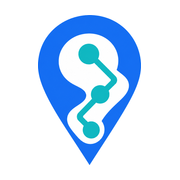
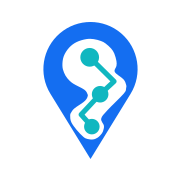
A marca vira vetor, e a rota se traca enquanto o app carrega
O pino era um PNG de 512 px gerado no Lovable e recortado a mao. Cobrava tres precos:
uma requisicao so para desenhar 32 px de cabecalho, borrao em tela retina acima de 512,
e nada dentro dele dava para animar. Ainda trazia o que o gerador errava: a cabeca do
pino nao era um circulo e as laterais nao eram tangentes dele.

O vetor foi DERIVADO do raster, nao redesenhado de memoria. A mancha branca saiu do
contorno tracado do proprio arquivo (rastreamento de Moore sobre branco+turquesa, buracos
preenchidos, Ramer-Douglas-Peucker e curva de Catmull-Rom: 917 pontos viram 39). A rota
saiu de medir corte a corte os nos, os cotovelos e a espessura. O que mudou de proposito
e o que o gerador errava: a cabeca virou circulo de verdade (256,176 raio 176) e as
laterais viraram as tangentes exatas dele ate a ponta em 256,512.

Medido contra o raster, renderizando o SVG e comparando mascara por mascara: 97,0% de
sobreposicao na silhueta, 95,6% na mancha branca, 94,8% na rota. O que sobra e a borda
de antisserrilhado de um pixel.

O carregamento passa a ser a propria marca: a rota se traca de um no ao outro, no lugar
da barrinha pulsante que servia a qualquer produto. Vale no splash do app e TAMBEM antes
do React, com o SVG embutido dentro de #root no index.html (o React limpa o conteiner no
primeiro render, entao nao existe codigo de remocao para esquecer). O dasharray vive so
na classe animada: sem animacao o pino aparece inteiro, nunca tracejado.
[…]

Changed region(s): [[0.1944, 0.0833, 0.8056, 0.9167]]

diff --git a/src/components/brand/Logo.tsx b/src/components/brand/Logo.tsx
@@ -1,18 +1,127 @@
-import { cn, withBase } from "@/lib/utils";
+import { cn } from "@/lib/utils";
 import { useBrand, iniciaisDaMarca } from "@/lib/brand/BrandContext";
 
-/** Marca do Mapa da Prescrição: o pino de mapa com a rota de 3 nós, a arte
- *  ESCOLHIDA pelo Filipe (24/07/2026) entre as geradas no Lovable, tratada
- *  (fundo transparente + recorte) em /brand/marca-pino.webp. Fundo
- *  transparente: funciona em claro e escuro. */
-export function MarcaPino({ className }: { className?: string }) {
+/*
+ * A MARCA EM VETOR, e por que ela deixou de ser um arquivo de imagem.
+ *
+ * O pino vinha de `/brand/marca-pino.webp`, um PNG de 512 px gerado no Lovable e recortado
+ * à mão. Servia, e cobrava três preços: pedia uma requisição só para desenhar 32 px de
+ * cabeçalho, borrava em tela retina acima de 512, e não dava para animar nem recolorir nada
+ * dentro dele. Ainda trazia as imperfeições do gerador: a cabeça do pino não era um círculo,
+ * as laterais não eram tangentes exatas e as bordas tinham meio pixel de sujeira.
+ *
+ * O vetor abaixo foi DERIVADO do raster, não redesenhado de memória: a mancha branca é o
+ * contorno traçado do próprio arquivo (Moore + simplificação + curva de Catmull-Rom), e a
+ * rota saiu de medir os nós, os cotovelos e a espessura pixel a pixel. O que mudou de
+ * propósito é o que o gerador errava: a cabeça virou um círculo de verdade (centro 256,176,
+ * raio 176) e as laterais viraram as tangentes exatas dele até a ponta em 256,512. Medido
+ * contra o raster: 97% de sobreposição na silhueta, 95,6% na mancha branca, 94,8% na rota,
+ * e a diferença que sobra é a borda de antisserrilhado de um pixel.
+ *
+ * As cores são LITERAIS de propósito. Marca não segue tema: o pino é #146EF1 e a rota é
+ * #10B7C0 no claro e no escuro, como em qualquer papel timbrado.
+ */
+const PINO = "M106.1 268.2A176 176 0 1 1 405.9 268.2L256 512Z";
+const MANCHA =
+  "M240 64C250.7 62.2 258.8 62.8 268 64C277.2 65.2 287.7 68.3 295 71C302.3 73.7 305.7 75.3 312 80C318.3 84.7 327.5 92.7 333 99C338.5 105.3 341.7 110.2 345 118C348.3 125.8 351.7 138.3 353 146C354.3 153.7 354 157.2 353 164C352 170.8 342.7 178.7 347 187C351.3 195.3 372 206.2 379 214C386 221.8 387.3 228.3 389 234C390.7 239.7 390.5 242.3 389 248C387.5 253.7 391.7 254.3 380 268C368.3 281.7 333 314.5 319 330C305 345.5 298.2 351.5 296 361C293.8 370.5 304.7 379.8 306 387C307.3 394.2 305.3 399 304 404C302.7 409 301.5 412.3 298 417C294.5 421.7 288.5 428.3 283 432C277.5 435.7 271.5 438.2 265 439C258.5 439.8 250 438.7 244 437C238 435.3 235.7 434.7 229 429C222.3 423.3 211.5 412.2 204 403C196.5 393.8 188 383 184 374C180 365 179.8 355.3 180 349C180.2 342.7 182.2 340.5 185 336C187.8 331.5 189.7 328 197 322C204.3 316 221.8 305.5 229 300C236.2 294.5 237.3 292.5 240 289C242.7 285.5 244.2 282.2 245 279C245.8 275.8 247 274.3 245 270C243 265.7 242 259.7 233 253C224 246.3 201.5 237 191 230C180.5 223 175.7 217.8 170 211C164.3 204.2 160.2 197 157 189C153.8 181 151.2 173.2 151 163C150.8 152.8 151.8 139.2 156 128C160.2 116.8 168 104.8 176 96C184 87.2 193.3 80.3 204 75C214.7 69.7 229.3 65.8 240 64Z";
+const ROTA = "M253 132L344 222L292 270L221 346L261 391";
+/** Nós da rota, do topo para a ponta. O raio decresce, como no desenho original. */
+const NOS = [
+  { cx: 253, cy: 132, r: 35 },
+  { cx: 292, cy: 270, r: 31 },
+  { cx: 261, cy: 391, r: 29 },
+] as const;
+const AZUL = "#146EF1";
+const TEAL = "#10B7C0";
+
+/**
+ * O pino do Mapa da Prescrição. Decorativo por padrão: quem o usa ao lado do nome da marca
+ * não quer que o leitor de tela diga "Mapa da Prescrição" duas vezes. Passe `rotulo` quando
+ * ele aparecer sozinho.
+ */
+export function MarcaPino({
+  className,
+  rotulo,
+  animado,
+}: {
+  className?: string;
+  rotulo?: string;
+  /** anima a rota se traçando: o estado de carregamento da casa */
+  animado?: boolean;
+}) {
   return (
-    <img
-      src={withBase("/brand/marca-pino.webp")}
-      alt=""
-      aria-hidden="true"
-      className={cn("object-contain", className)}
-    />
+    <svg
+      viewBox="0 0 512 512"
+      fill="none"
+      className={cn(animado && "marca-carregando", className)}
+      role={rotulo ? "img" : undefined}
+      aria-label={rotulo}
+      aria-hidden={rotulo ? undefined : true}
+      focusable="false"
+    >
+      <path fill={AZUL} d={PINO} />
+      <path fill="#FFFFFF" d={MANCHA} />
+      <path
+        className="marca-rota"
+        fill="none"
+        stroke={TEAL}
+        strokeWidth={19}
+        strokeLinecap="round"
+        strokeLinejoin="round"
+        d={ROTA}
+      />
+      {NOS.map((no, i) => (
+        <circle
+          key={no.cy}
+          className="marca-no"
+          fill={TEAL}
+          cx={no.cx}
+          cy={no.cy}
+          r={no.r}
+          style={animado ? { animationDelay: `${i * 0.16}s` } : undefined}
+        />
+      ))}
+    </svg>
+  );
+}
+
+/**
+ * A MARCA COMO INDICADOR DE CARREGAMENTO.
+ *
+ * A rota se traça de um nó ao outro, que é literalmente o que o produto faz enquanto espera.
+ * Substitui a barrinha pulsante genérica que ficava embaixo do logo. Quem desliga animação no
+ * sistema recebe o pino inteiro, parado: os quadros terminam no desenho completo, nunca num
+ * estado pela metade.
+ */
+export function MarcaCarregando({
+  className,
+  rotulo = "Carregando",
+}: {
+  className?: string;
+  rotulo?: string;
+}) {
+  return (
+    <span role="status" aria-live="polite" className="inline-flex flex-col items-center gap-2">
+      <MarcaPino animado className={cn("h-12 w-12", className)} />
+      <span className="sr-only">{rotulo}</span>
+    </span>
+  );
+}
+
+/** O nome da marca, com o traço da rota sob "Prescrição" (é o desenho do logotipo). */
+function Palavra({ className }: { className?: string }) {
+  return (
+    <span className={cn("whitespace-nowrap font-display font-bold leading-none text-ink", className)}>
+      Mapa da{" "}
+      <span className="relative inline-block">
+        Prescrição
+        <span
+          aria-hidden
+          className="absolute inset-x-0 -bottom-[0.18em] h-[0.1em] rounded-full"
+          style={{ background: TEAL }}
+        />
+      </span>
+    </span>
   );
 }
 
@@ -46,11 +155,7 @@ export function Logo({ showWord = true, className }: { showWord?: boolean; class
   return (
     <div className={cn("flex items-center gap-2", className)}>
       <MarcaPino className="h-8 w-8 shrink-0" />
-      {showWord && (
-        <span className="whitespace-nowrap font-display text-[17px] font-bold leading-none text-ink">
-          Mapa da <span className="text-primary">Prescrição</span>
-        </span>
-      )}
+      {showWord && <Palavra className="text-[17px]" />}
     </div>
   );
 }

diff --git a/index.html b/index.html
@@ -43,6 +43,25 @@
         } catch (e) {}
       })();
     </script>
+    <style>
+      /* 363 é o comprimento medido do caminho da rota, por isso o traço fecha no último nó.
+         O dasharray vive só aqui: sem animação o pino aparece inteiro, nunca tracejado. */
+      .splash-marca {
+        position: fixed;
+        inset: 0;
+        display: grid;
+        place-items: center;
+        background: var(--bg, #f7f6f3);
+      }
+      .splash-marca svg { width: 72px; height: 72px; }
+      @keyframes splash-percorre { from { stroke-dashoffset: 363; } to { stroke-dashoffset: 0; } }
+      @media (prefers-reduced-motion: no-preference) {
+        .splash-marca .rota {
+          stroke-dasharray: 363;
+          animation: splash-percorre 1.6s cubic-bezier(0.65, 0, 0.35, 1) infinite;
+        }
+      }
+    </style>
     <meta
       name="description"
       content="Sistema para profissionais de Educação Física: registre o aluno, a avaliação, o semáforo e o treino; acompanhe do cadastro à reavaliação; e direcione a prescrição ao objetivo e à condição de cada aluno, com o porquê documentado. A decisão é sempre sua."
@@ -76,7 +95,29 @@
     </script>
   </head>
   <body>
-    <div id="root"></div>
+    <!--
+      A MARCA ENQUANTO O APLICATIVO CARREGA.
+
+      Fica DENTRO de #root: o React limpa o contêiner no primeiro render, então não existe
+      código de remoção para esquecer de rodar nem risco de a tela ficar presa. Enquanto o
+      pacote não chega, o que aparece é a marca se desenhando, e não uma página em branco.
+
+      O SVG é o mesmo de /brand/marca-pino.svg, embutido porque uma requisição a mais aqui
+      atrasaria justamente o quadro que ele existe para preencher. Se a marca mudar, rode
+      `node scripts/gerar-icones-marca.mjs` e traga o path novo para cá.
+    -->
+    <div id="root">
+      <div class="splash-marca" role="status" aria-label="Carregando">
+        <svg viewBox="0 0 512 512" fill="none" aria-hidden="true" focusable="false">
+          <path fill="#146EF1" d="M106.1 268.2A176 176 0 1 1 405.9 268.2L256 512Z"/>
+          <path fill="#FFFFFF" d="M240 64C250.7 62.2 258.8 62.8 268 64C277.2 65.2 287.7 68.3 295 71C302.3 73.7 305.7 75.3 312 80C318.3 84.7 327.5 92.7 333 99C338.5 105.3 341.7 110.2 345 118C348.3 125.8 351.7 138.3 353 146C354.3 153.7 354 157.2 353 164C352 170.8 342.7 178.7 347 187C351.3 195.3 372 206.2 379 214C386 221.8 387.3 228.3 389 234C390.7 239.7 390.5 242.3 389 248C387.5 253.7 391.7 254.3 380 268C368.3 281.7 333 314.5 319 330C305 345.5 298.2 351.5 296 361C293.8 370.5 304.7 379.8 306 387C307.3 394.2 305.3 399 304 404C302.7 409 301.5 412.3 298 417C294.5 421.7 288.5 428.3 283 432C277.5 435.7 271.5 438.2 265 439C258.5 439.8 250 438.7 244 437C238 435.3 235.7 434.7 229 429C222.3 423.3 211.5 412.2 204 403C196.5 393.8 188 383 184 374C180 365 179.8 355.3 180 349C180.2 342.7 182.2 340.5 185 336C187.8 331.5 189.7 328 197 322C204.3 316 221.8 305.5 229 300C236.2 294.5 237.3 292.5 240 289C242.7 285.5 244.2 282.2 245 279C245.8 275.8 247 274.3 245 270C243 265.7 242 259.7 233 253C224 246.3 201.5 237 191 230C180.5 223 175.7 217.8 170 211C164.3 204.2 160.2 197 157 189C153.8 181 151.2 173.2 151 163C150.8 152.8 151.8 139.2 156 128C160.2 116.8 168 104.8 176 96C184 87.2 193.3 80.3 204 75C214.7 69.7 229.3 65.8 240 64Z"/>
+          <path class="rota" fill="none" stroke="#10B7C0" stroke-width="19" stroke-linecap="round" stroke-linejoin="round" d="M253 132L344 222L292 270L221 346L261 391"/>
+          <circle fill="#10B7C0" cx="253" cy="132" r="35"/>
+          <circle fill="#10B7C0" cx="292" cy="270" r="31"/>
+          <circle fill="#10B7C0" cx="261" cy="391" r="29"/>
+        </svg>
+      </div>
+    </div>
     <script type="module" src="/src/main.tsx"></script>
   </body>
 </html>

diff --git a/src/components/app/AppLayout.tsx b/src/components/app/AppLayout.tsx
@@ -2,7 +2,7 @@ import * as React from "react";
 import { createPortal } from "react-dom";
 import { Link, Navigate, Outlet, useLocation, useNavigate } from "react-router-dom";
 import { Bell, CheckCheck, MoreHorizontal, Search, Eye, Plus, LogOut } from "lucide-react";
-import { Logo } from "@/components/brand/Logo";
+import { Logo, MarcaPino } from "@/components/brand/Logo";
 import { GlobalSearch } from "@/components/app/GlobalSearch";
 import { PRIMARIOS, MAIS, BOTTOM, CONTA, itemAtivo } from "@/components/app/nav";
 import { notificacoes } from "@/lib/notificacoes";
@@ -164,15 +164,26 @@ export function AppLayout() {
   );
 }
 
-/** Tela cheia enquanto o Supabase confere se há sessão ativa (login em nuvem). */
+/**
+ * Tela cheia enquanto o Supabase confere se há sessão ativa (login em nuvem).
+ *
+ * A espera é da própria marca: a rota se traça de um nó ao outro, no lugar da barrinha
+ * pulsante que servia a qualquer produto. `role="status"` e `aria-live` ficam no wrapper,
+ * porque quem usa leitor de tela precisa ouvir que há uma espera, e não ver uma animação.
+ */
 function SplashCarregando() {
   return (
     <div className="fixed inset-0 grid place-items-center bg-bg">
-      <div className="flex flex-col items-center gap-3">
-        <Logo />
-        <div className="h-1 w-24 overflow-hidden rounded-full bg-surface-soft">
-          <div className="h-full w-1/2 animate-pulse rounded-full gradient-brand" />
-        </div>
+      <div role="status" aria-live="polite" className="flex flex-col items-center gap-4">
+        <MarcaPino animado className="h-16 w-16" />
+        <span className="font-display text-base font-bold leading-none text-ink">
+          Mapa da{" "}
+          <span className="relative inline-block">
+            Prescrição
+            <span aria-hidden className="absolute inset-x-0 -bottom-[0.18em] h-[0.1em] rounded-full bg-[#10B7C0]" />
+          </span>
+        </span>
+        <span className="sr-only">Carregando</span>
       </div>
     </div>
   );
@@ -434,10 +445,16 @@ function Sidebar() {
         className="relative flex items-center gap-3 px-5 pb-5 pt-6"
       >
         <Logo showWord={false} />
+        {/* O logotipo como ele foi desenhado: nome em duas linhas e o traço da rota sob
+            "Prescrição". A lateral é o único lugar do produto que reproduz o lockup inteiro,
+            porque é o único com o pino e o nome empilhado lado a lado. */}
         <span className="font-display text-base font-bold leading-tight" style={{ color: CASCA.tinta }}>
           Mapa da
           <br />
-          Prescrição
+          <span className="relative inline-block">
+            Prescrição
+            <span aria-hidden className="absolute inset-x-0 -bottom-[0.16em] h-[0.09em] rounded-full bg-[#10B7C0]" />
+          </span>
         </span>
       </Link>
 

diff --git a/src/pages/landing/prototipo.html b/src/pages/landing/prototipo.html
@@ -4,7 +4,7 @@
 <div data-screen-label="Header" style="position:sticky;top:0;z-index:50;background:rgba(11,22,40,.86);backdrop-filter:blur(14px);-webkit-backdrop-filter:blur(14px);color:#F3F1EA;border-bottom:1px solid rgba(255,255,255,.08)">
   <div style="width:min(1120px,100% - 40px);margin:0 auto;display:flex;align-items:center;justify-content:space-between;height:68px;gap:24px">
     <a href="#topo" style="display:flex;align-items:center;gap:10px;color:#F3F1EA">
-      <img src="/brand/marca-pino.webp" alt="" width="30" height="30" style="width:30px;height:30px;object-fit:contain">
+      <img src="/brand/marca-pino.svg" alt="" width="30" height="30" style="width:30px;height:30px;object-fit:contain">
       <span style="font-family:'Bricolage Grotesque',sans-serif;font-weight:600;font-size:17px;letter-spacing:-.01em">Mapa da Prescrição</span>
     </a>
     <sc-if value="{{ isDesktop }}" hint-placeholder-val="{{ true }}">
@@ -540,7 +540,7 @@
   <div style="position:relative;width:min(1120px,100% - 40px);margin:0 auto;padding:clamp(40px,6vw,72px) 0 32px;display:grid;grid-template-columns:repeat(auto-fit,minmax(min(100%,520px),1fr));gap:{{ gapRodape }} 48px">
     <div style="max-width:340px">
       <div style="display:flex;align-items:center;gap:10px;color:#F3F1EA">
-        <img src="/brand/marca-pino.webp" alt="" width="30" height="30" style="width:30px;height:30px;object-fit:contain">
+        <img src="/brand/marca-pino.svg" alt="" width="30" height="30" style="width:30px;height:30px;object-fit:contain">
         <span style="font-family:'Bricolage Grotesque',sans-serif;font-weight:600;font-size:17px">Mapa da Prescrição</span>
       </div>
       <p data-oculta-m style="margin:16px 0 0;line-height:1.6;font-size:14.5px">Registrar, acompanhar e direcionar a prescrição. Para profissionais de Educação Física que assinam o que entregam.</p>

diff --git a/src/index.css b/src/index.css
@@ -164,6 +164,35 @@ main .grid > * {
    aluno. O design reserva o gradiente para esse gesto ("Publicar no app do
    aluno") e a acao principal comum virou pilula escura (bg-ink). O nome
    antigo (.gradient-cta, coral) morreu junto com o botao coral. */
+/*
+ * A MARCA EM CARREGAMENTO: a rota se traça de um nó ao outro.
+ *
+ * Era uma barrinha pulsante genérica embaixo do logo, que servia a qualquer produto. O
+ * comprimento 363 é o do próprio caminho da rota (medido, não estimado), e por isso o traço
+ * fecha exatamente no último nó.
+ *
+ * O `stroke-dasharray` vive AQUI e não no atributo do SVG de propósito: quem desliga
+ * animação no sistema recebe o quadro final (offset 0, pino inteiro), e o SVG parado nunca
+ * aparece tracejado. O reset de motion reduzida no fim deste arquivo cuida do resto.
+ */
+@keyframes marca-percorre {
+  from { stroke-dashoffset: 363; }
+  to { stroke-dashoffset: 0; }
+}
+@keyframes marca-no {
+  0%, 100% { transform: scale(1); }
+  45% { transform: scale(1.16); }
+}
+.marca-carregando .marca-rota {
+  stroke-dasharray: 363;
+  animation: marca-percorre 1.6s cubic-bezier(0.65, 0, 0.35, 1) infinite;
+}
+.marca-carregando .marca-no {
+  transform-box: fill-box;
+  transform-origin: center;
+  animation: marca-no 1.6s cubic-bezier(0.65, 0, 0.35, 1) infinite;
+}
+
 .gradient-publicar {
   background-image: linear-gradient(135deg, var(--brand-blue) 0%, var(--brand-turquesa) 100%);
 }
